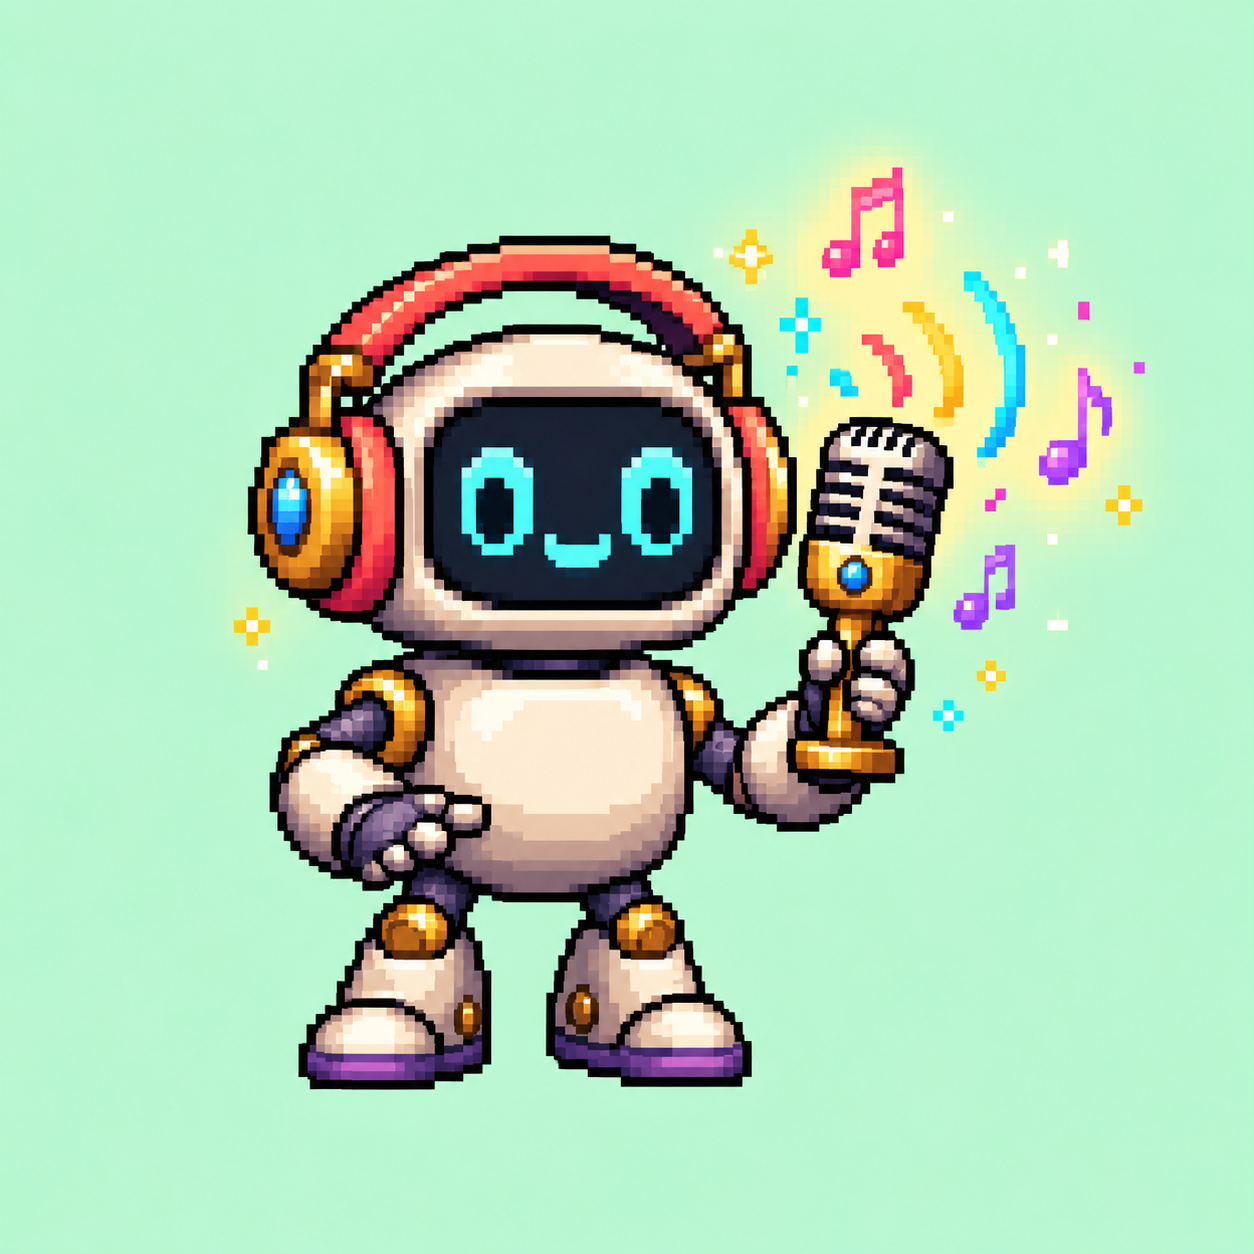
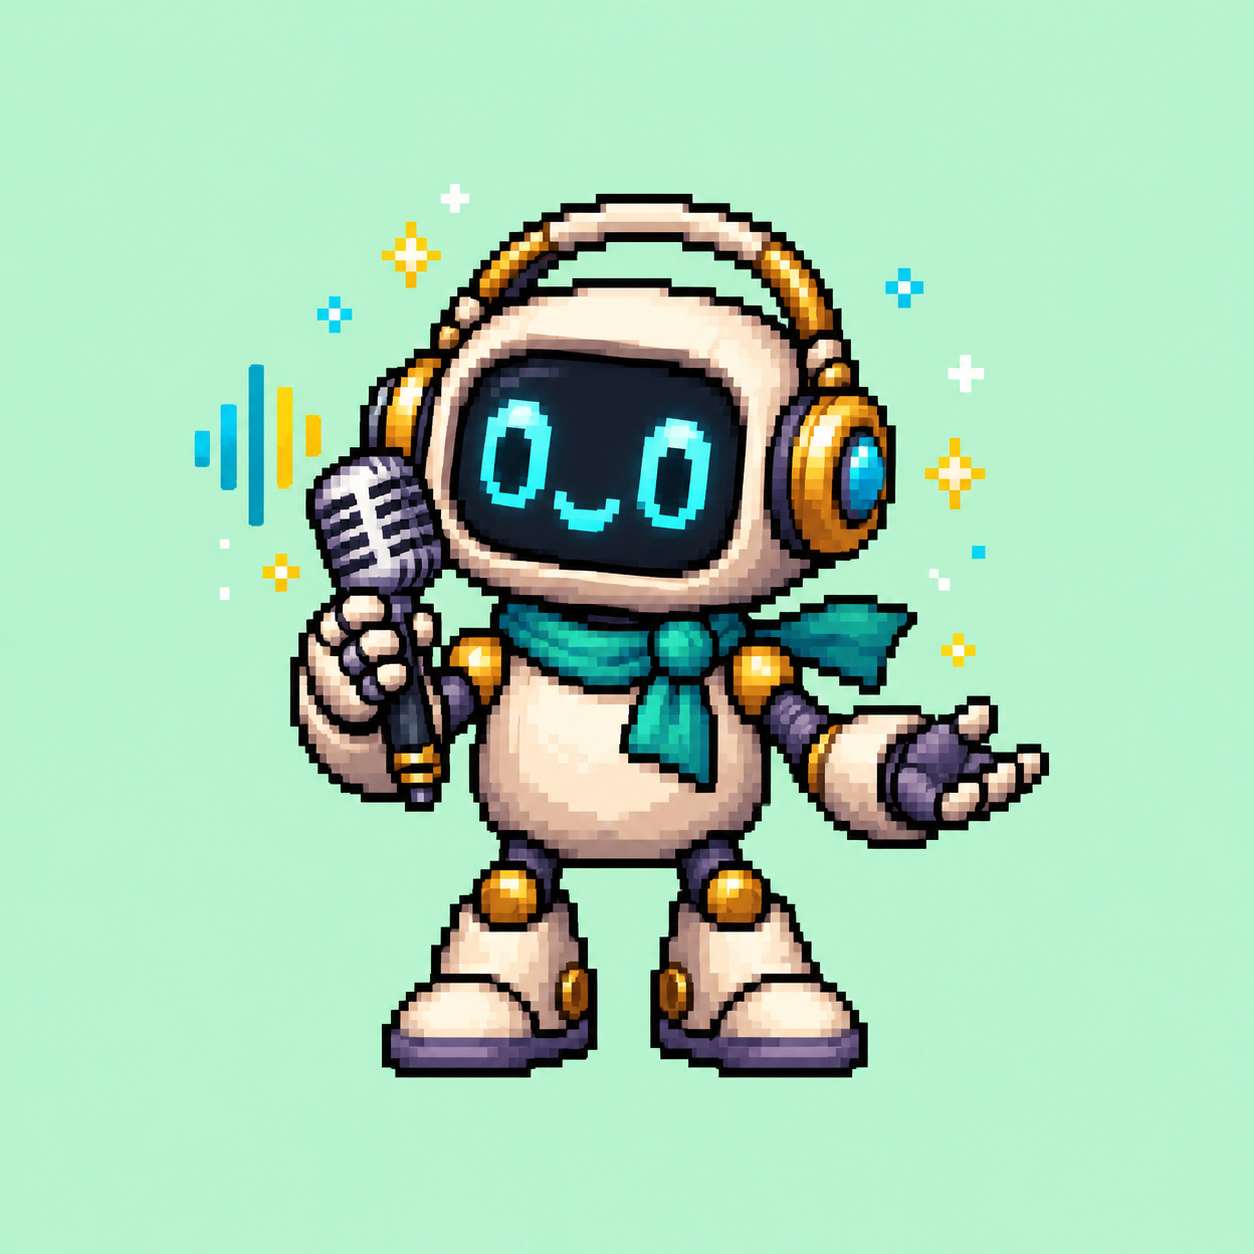
Use the shared GPTVoice mascot from the landing site

diff --git a/README.md b/README.md
@@ -1,6 +1,6 @@
 <div align="center">
 
-<img src="assets/mascot.png" width="220" alt="GPTVoice mascot: a friendly pixel-art robot with headphones and a microphone" />
+<img src="assets/mascot.png" width="220" alt="GPTVoice mascot: a pixel-art robot with headphones, a teal scarf and a vintage microphone" />
 
 # GPTVoice
 
